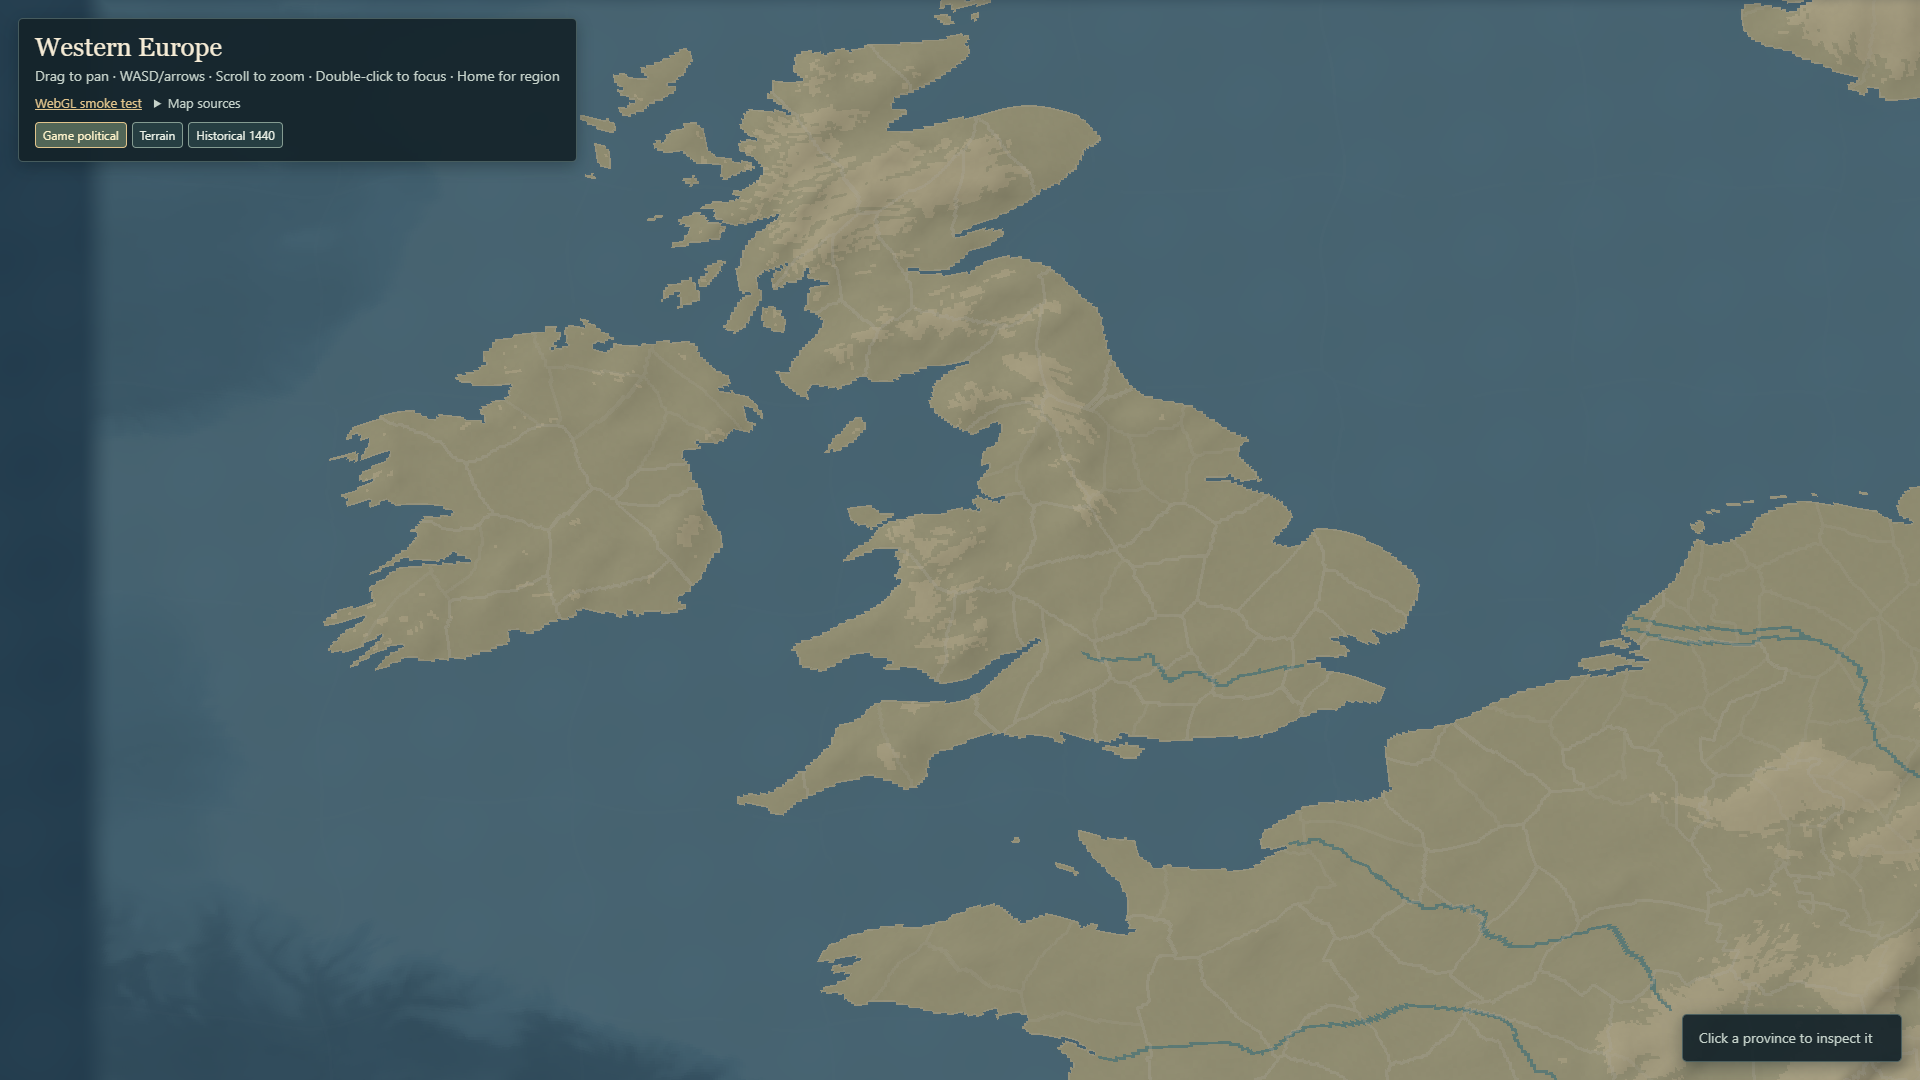
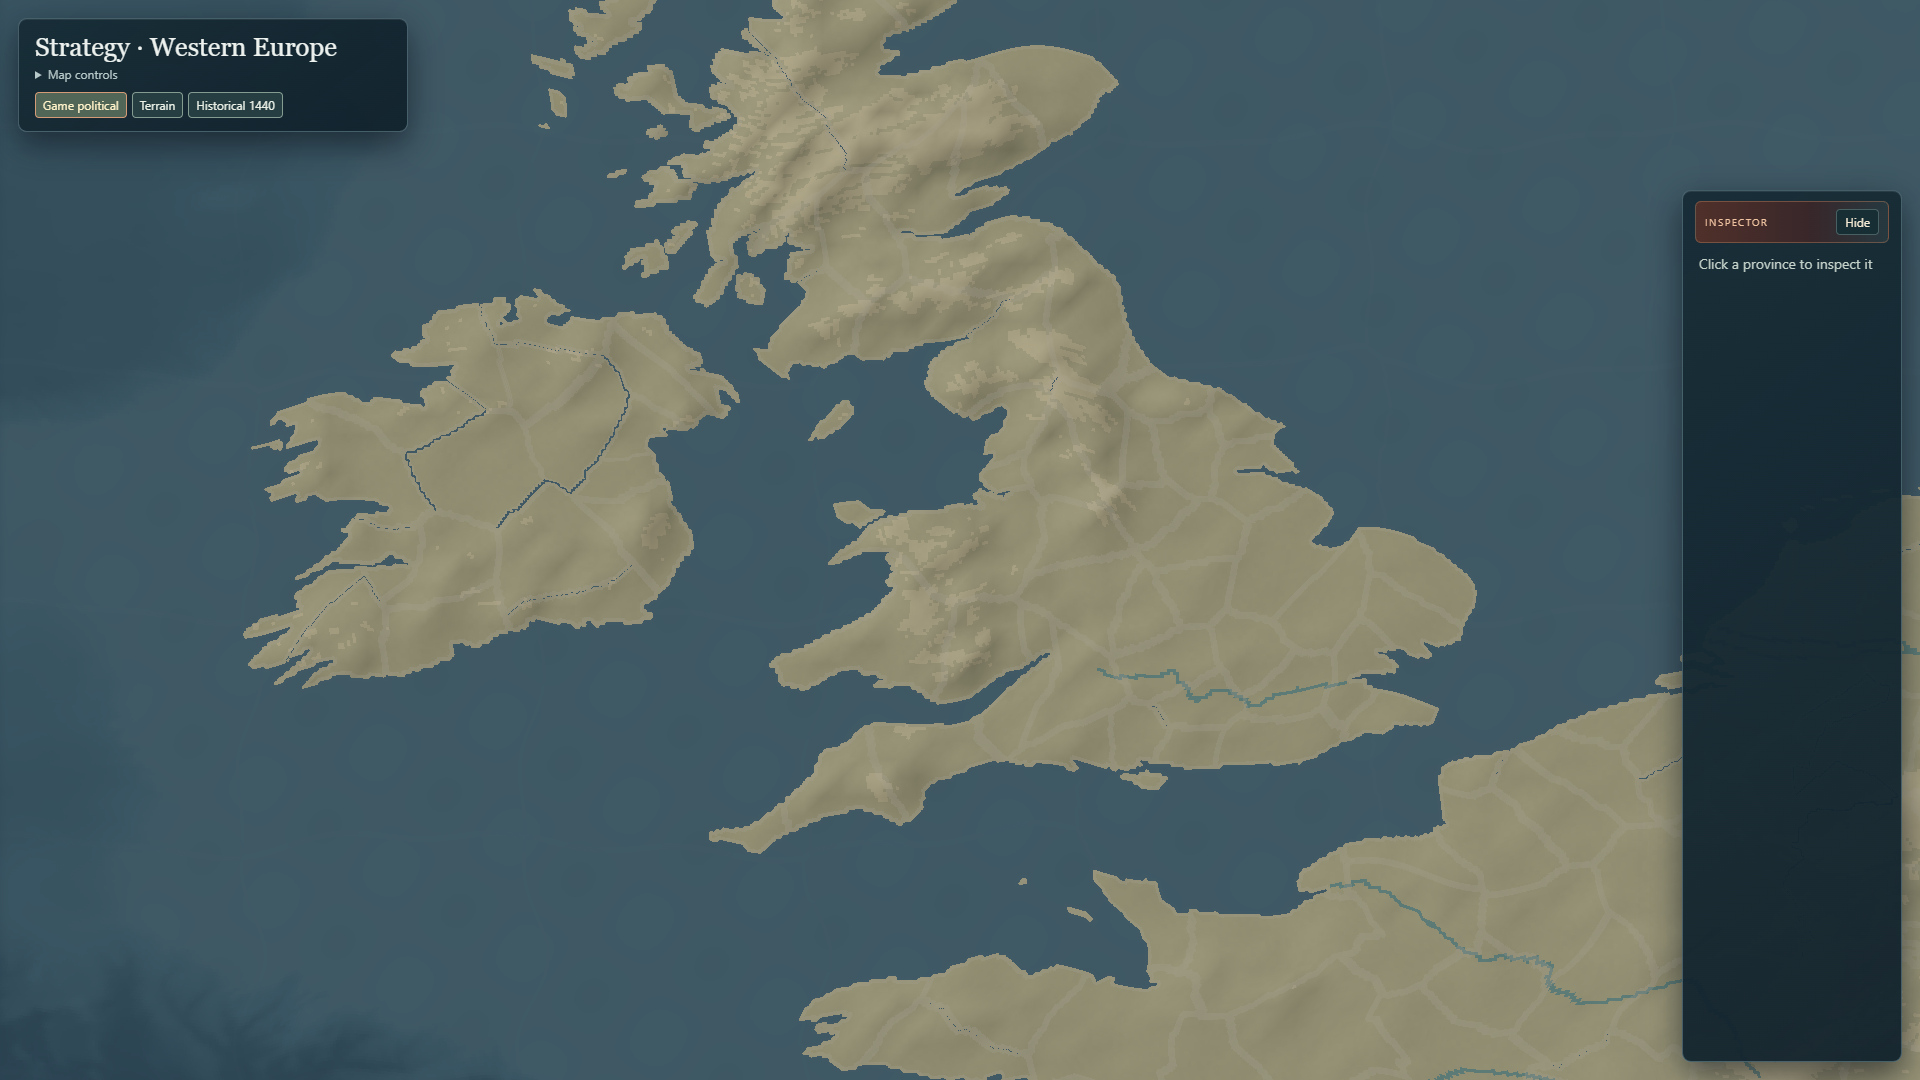
Improve modern map presentation and clarity (#54)
* fix: improve modern map scale and visual clarity

* docs: refresh M5b map review captures

diff --git a/ui/src/style.css b/ui/src/style.css
@@ -41,9 +41,12 @@ p { font-size: 14px; color: #a8b6cf; }
 .map-viewport[data-map-scale='local'] .map-label[data-kind='province'] { font-size: 11px; font-weight: 600; }
 .map-army-overlay { position: absolute; inset: 0; overflow: hidden; pointer-events: none; }
 .map-selection-box { position: absolute; z-index: 4; border: 1px solid #ffe2a0; background: #d7b76c22; box-shadow: 0 0 0 1px #17283299; pointer-events: none; }
-.map-army-badge { position: absolute; z-index: 2; transform: translate(-50%, -135%); padding: 3px 6px; border: 1px solid #c7b88d; border-radius: 5px; background: #142329ed; color: #fdf2d8; white-space: nowrap; font: 700 12px/1 system-ui, sans-serif; text-shadow: 0 1px #000; box-shadow: 0 2px 5px #0008; }
+.map-army-badge { position: absolute; z-index: 2; transform: translate(-50%, -135%); padding: 3px 6px; border: 1px solid var(--army-color, #c7b88d); border-radius: 5px; background: linear-gradient(145deg, #24343aef, #101a20f2); color: #fdf2d8; white-space: nowrap; font: 700 12px/1 system-ui, sans-serif; text-shadow: 0 1px #000; box-shadow: 0 2px 5px #0008; }
 .map-army-badge[hidden], .map-fleet-badge[hidden] { display: none !important; }
 .map-army-icon, .map-fleet-icon { display: inline-block; }
+.map-army-icon { color: #f4e4bf; }
+.map-army-readiness { position: absolute; top: -3px; right: -3px; width: 6px; height: 6px; border: 1px solid #162126; border-radius: 50%; background: #e8a34c; box-shadow: 0 0 4px #e8a34c99; }
+.map-army-readiness[hidden] { display: none; }
 .map-army-badge[data-selected='true'] { border-color: #ffdf80; background: #564723; }
 .map-army-path { position: absolute; height: 0; border-top: 2px dashed #ffd778; opacity: .85; transform-origin: left center; }
 .map-army-path::after { content: ''; position: absolute; right: -1px; top: -5px; border-left: 7px solid #ffd778; border-top: 4px solid transparent; border-bottom: 4px solid transparent; }
@@ -136,7 +139,7 @@ p { font-size: 14px; color: #a8b6cf; }
 .game-clock-actions { display: flex; align-items: center; gap: 12px; }
 .game-clock-actions label { display: flex; align-items: center; gap: 6px; }
 .map-inspector--host {
-  width: min(330px, calc(100% - 36px));
+  width: min(390px, calc(100% - 36px));
   max-height: none;
   overflow: auto;
   pointer-events: auto;
@@ -183,8 +186,8 @@ p { font-size: 14px; color: #a8b6cf; }
 .character-panel .character-name { color: #f5ebd5; }
 .map-panel .game-error, .map-panel .game-regency { margin-top: 6px; color: #f0b28a; }
 
-.inspector-tabs { display: grid; grid-template-columns: repeat(3, minmax(0, 1fr)); gap: 6px; margin-top: 9px; }
-.inspector-tabs button { display: flex; align-items: center; justify-content: center; gap: 6px; min-width: 0; min-height: 36px; padding: 5px 4px; border-color: #66838d77; background: linear-gradient(145deg, #213943, #172a34); font-size: 12px; line-height: 1.2; overflow-wrap: anywhere; }
+.inspector-tabs { display: grid; grid-template-columns: repeat(2, minmax(0, 1fr)); gap: 7px; margin-top: 10px; }
+.inspector-tabs button { display: flex; align-items: center; justify-content: flex-start; gap: 8px; min-width: 0; min-height: 40px; padding: 7px 10px; border-color: #66838d77; background: linear-gradient(145deg, #213943, #172a34); font-size: 13px; line-height: 1.2; white-space: nowrap; }
 .inspector-tab-icon { color: var(--ui-color-accent); font-size: 15px; line-height: 1; }
 .inspector-tabs button[aria-pressed="true"] { border-color: var(--ui-color-accent); background: linear-gradient(145deg, #49372f, #293940); color: #f0c4a1; }
 .military-panel { margin-top: 11px; padding-top: 8px; border-top: 1px solid #78918d55; }

diff --git a/ui/src/map/MapPage.tsx b/ui/src/map/MapPage.tsx
@@ -183,6 +183,10 @@ export function MapPage({ lan, hostGame }: { lan: LanController; hostGame: Retur
   const technologyEnabled = Boolean(game?.technologies?.length);
   const ideasEnabled = Boolean(game?.ideas?.length);
   const reformsEnabled = Boolean(game?.reforms?.length);
+  const modernCampaign = Number.parseInt(game?.clock.date.slice(0, 4) ?? '0', 10) >= 2000;
+  const mapModes: readonly MapMode[] = modernCampaign
+    ? ['political', 'terrain']
+    : ['political', 'terrain', 'historical'];
   const colors = useMemo(
     () => provinceColors(game?.owners, game?.countries),
     [game?.owners, game?.countries],
@@ -334,7 +338,11 @@ export function MapPage({ lan, hostGame }: { lan: LanController; hostGame: Retur
   const occupier = game?.countries.find((country) => country.id === occupierId);
   const provinceName = (id: number) => {
     const province = provinceNames.get(id);
-    return province ? mapAssets?.names.get(province.name_key ?? '') ?? 'Province ' + id : 'Province ' + id;
+    const localized = province && mapAssets?.names.get(province.name_key ?? '');
+    if (localized) return localized;
+    if (province?.kind === 'sea') return `Sea zone ${id}`;
+    if (province?.kind === 'lake') return `Lake ${id}`;
+    return `Province ${id}`;
   };
   const attribution = selected && mapAssets?.polityAttributions.get(selected.id);
 
@@ -445,7 +453,7 @@ export function MapPage({ lan, hostGame }: { lan: LanController; hostGame: Retur
               <MapSources />
             </>}
             <nav className="map-modes" aria-label="Map mode">
-              {(['political', 'terrain', 'historical'] as const).map((mode) => (
+              {mapModes.map((mode) => (
                 <button key={mode} type="button" aria-pressed={mapMode === mode}
                   onClick={() => { modeChosenByUser.current = true; setMapMode(mode); }}>
                   {mode === 'political' ? 'Game political' : mode === 'terrain' ? 'Terrain' : 'Historical 1440'}
@@ -510,8 +518,10 @@ export function MapPage({ lan, hostGame }: { lan: LanController; hostGame: Retur
           {selected ? (
             <>
               <h2>{provinceName(selected.id)}</h2>
-              <p>Province {selected.id} · {nameOf(selected.kind)} · {nameOf(selected.terrain)}</p>
-              {game && <p>Owner · {provinceOwner?.name ?? 'Unowned'}</p>}
+              <p>{selected.kind === 'sea'
+                ? `Sea zone · Province ${selected.id}`
+                : `Province ${selected.id} · ${nameOf(selected.kind)} · ${nameOf(selected.terrain)}`}</p>
+              {game && selected.kind === 'land' && <p>Owner · {provinceOwner?.name ?? 'Unowned'}</p>}
               {game?.blockaded_ports?.includes(selected.id) && <p>Blockaded · port tax income closed</p>}
               {mapMode === 'historical' && selected.kind === 'land' && (
                 <p data-historical-resolution={attribution?.resolution ?? 'unmatched'}>

diff --git a/ui/src/map/armyLayer.ts b/ui/src/map/armyLayer.ts
@@ -159,13 +159,20 @@ export function createArmyLayer(
         badge.dataset.armyId = String(marker.id);
         const icon = document.createElement('span');
         icon.className = 'map-army-icon';
-        icon.textContent = marker.recruitingDays > 0 ? '⌛' : '⚔';
+        icon.textContent = '⚔';
+        const readiness = document.createElement('span');
+        readiness.className = 'map-army-readiness';
+        readiness.setAttribute('aria-hidden', 'true');
         const strength = document.createElement('span');
         strength.className = 'map-army-strength';
-        badge.append(icon, strength);
+        badge.append(icon, readiness, strength);
         overlay.appendChild(badge);
         badges.set(marker.id, badge);
       }
+      const readiness = badge.querySelector<HTMLSpanElement>('.map-army-readiness');
+      if (readiness) readiness.hidden = marker.recruitingDays <= 0;
+      const color = /^#[a-f\d]{6}$/i.test(marker.color) ? marker.color : '#c7b88d';
+      badge.style.setProperty('--army-color', color);
       const strength = badge.querySelector('.map-army-strength');
       if (strength) strength.textContent = marker.recruitingDays > 0
         ? `${marker.recruitingDays}d` : marker.soldiers.toLocaleString('en-US');

diff --git a/ui/src/map/mapShaders.ts b/ui/src/map/mapShaders.ts
@@ -160,7 +160,9 @@ void main() {
   color = mix(color, color * highlandTint, elevationTint * 0.16);
 
   if (mapMode == 0) {
-    color = mix(color, owner.rgb, owner.a * 0.88);
+    float ownershipLuminance = dot(owner.rgb, vec3(0.2126, 0.7152, 0.0722));
+    vec3 atlasOwnership = mix(vec3(ownershipLuminance), owner.rgb, 0.80);
+    color = mix(color, atlasOwnership, owner.a * 0.84);
     if (sourceCountryFill.a > 0.0 && ownershipChanged < 0.5) {
       vec3 sourceFillColor = sourceCountryFill.rgb / max(sourceCountryFill.a, 0.001);
       color = mix(color, sourceFillColor, sourceCountryFill.a);
@@ -168,7 +170,7 @@ void main() {
     // Keep country ownership clear while letting the underlying relief read
     // through like a printed political atlas instead of a flat board-game map.
     if (owner.a > 0.01 || sourceCountryFill.a > 0.0) {
-      float politicalRelief = 0.90 + 0.18 * clamp(landLight, 0.0, 1.0);
+      float politicalRelief = 0.82 + 0.32 * clamp(landLight, 0.0, 1.0);
       color *= politicalRelief;
     }
   }

diff --git a/ui/src/map/mapViewer.ts b/ui/src/map/mapViewer.ts
@@ -265,7 +265,7 @@ export function createMapViewer(
   let fitted = false;
   const fitZoom = (aspect: number) => Math.min(
     1,
-    (height * 1.08 * aspect) / width,
+    (height * 0.96 * aspect) / width,
   ) * 0.96;
   function resize() {
     const w = viewport.clientWidth;
@@ -273,7 +273,9 @@ export function createMapViewer(
     if (w === 0 || h === 0) return;
     renderer.setPixelRatio(Math.min(window.devicePixelRatio, 2));
     renderer.setSize(w, h, false);
-    const frameHeight = height * 1.08;
+    // Keep a full-height region overview. The previous 1.08 factor left
+    // conspicuous unused bands around the map on 16:9 desktop windows.
+    const frameHeight = height * 0.96;
     camera.left = -frameHeight * w / h / 2;
     camera.right = -camera.left;
     camera.top = frameHeight / 2;

diff --git a/ui/src/map/terrain.ts b/ui/src/map/terrain.ts
@@ -4,7 +4,9 @@ import { MapAssets, pickProvinceId } from './mapData';
 const sampleStep = 6;
 const chunkCells = 32;
 const seaLevel = 32768;
-const metersToMapUnits = 0.012;
+// A restrained vertical exaggeration makes the public DEM legible at country
+// scale while keeping the map readable as a political atlas.
+const metersToMapUnits = 0.018;
 
 export function createTerrain(
   assets: MapAssets,

diff --git a/docs/ROADMAP.md b/docs/ROADMAP.md
@@ -29,7 +29,7 @@ build as proof of physical LAN or owner visual acceptance.
 |---|---|---|
 | M0–M4 foundation, simulation, map, countries, land war | Complete `[x]` | None in these milestones. |
 | M5 LAN foundation | Protocol, host/client, discovery, reconnect, checksums, resync and LAN log mode implemented. The app opens at a title screen; solo play now selects a country and starts only after the player confirms, with other countries AI-controlled. Network Game offers Create/Join Room; the host chooses a country when creating a room, the guest claims one after joining, and the host starts after both seats are assigned. | Complete the two-PC hour run and record second PC GPU/FPS and discovery result in D4. |
-| M5b map and UI | Europe map pipeline, polygon evidence view, ownership coloring, map modes, interaction, unit markers and panels implemented. HUD is compact; the right inspector can collapse; development links are hidden from production UI. Native current-map benchmark recorded 144 FPS / p95 7.0 ms at 1920×1080 on RTX 4050; process tree measured 794.0 MiB working set / 662.3 MiB private memory. | Owner review of current screenshots; integrated-GPU/target-hardware confirmation; remaining interaction/localization work. Do not mark accepted until owner visual review. |
+| M5b map and UI | Europe map pipeline, polygon evidence view, ownership coloring, map modes, interaction, unit markers and panels implemented. Recent screenshot corrections enlarge the regional map to use the window height, improve relief and mute political fills, keep recruiting armies legible, and hide raw sea-zone keys. HUD is compact; the right inspector can collapse; development links are hidden from production UI. Native current-map benchmark recorded 144 FPS / p95 7.0 ms at 1920×1080 on RTX 4050; process tree measured 794.0 MiB working set / 662.3 MiB private memory. | Owner review of current screenshots; integrated-GPU/target-hardware confirmation; remaining interaction/localization work. Do not mark accepted until owner visual review. |
 | M6 diplomacy | Alliances, marriages, guarantees, vassalage, multi-participant wars, truces, call-to-arms, family growth, named aristocratic claimants, and succession-conflict rules implemented on the current branch. | Run the full checks and verify save/LAN/UI handling; complete two-player proposal/response acceptance and succession-war playthrough. |
 | M7 generic events | Deterministic engine, choices, AI weighting, generic 1440 pack and English/Russian catalogs implemented. | AI-only event run and both-player multiplayer resolution acceptance. Historical country packs are post-alpha. |
 | M8 naval | Fleets, transport, combat, blockade, attrition, construction and AI landing implemented; focused tests pass. | Complete AI L3 acceptance run and content/starting-port review. |

diff --git a/docs/milestones/M05b_visual_pass.md b/docs/milestones/M05b_visual_pass.md
@@ -35,6 +35,13 @@ Why: M2-M5 acceptance was technical only. Later systems (diplomacy, naval, AI) a
   full strength text for screen readers and tooltips. A 1100×768 browser check
   covers these responsive rules; owner review and native target-hardware review
   remain required.
+- 2026-11-15 screenshot follow-up: the first view now uses the full map height
+  instead of leaving large unused bands, ownership fills retain more terrain
+  relief and use a muted atlas treatment, recruiting status is a small marker
+  instead of replacing every army symbol, and sea provinces no longer display
+  raw internal keys or a misleading unowned-land row. The modern campaign also
+  hides the unrelated 1440 reference mode. These are implementation fixes only;
+  owner visual acceptance remains open.
 
 ## Acceptance (evidence required)
 - Add a dev command capturing screenshots at named camera presets (whole region, Britain close-up, Iberian coast, single province close-up) at 1080p. PR must attach them; the owner reviews. No screenshots = not accepted.
